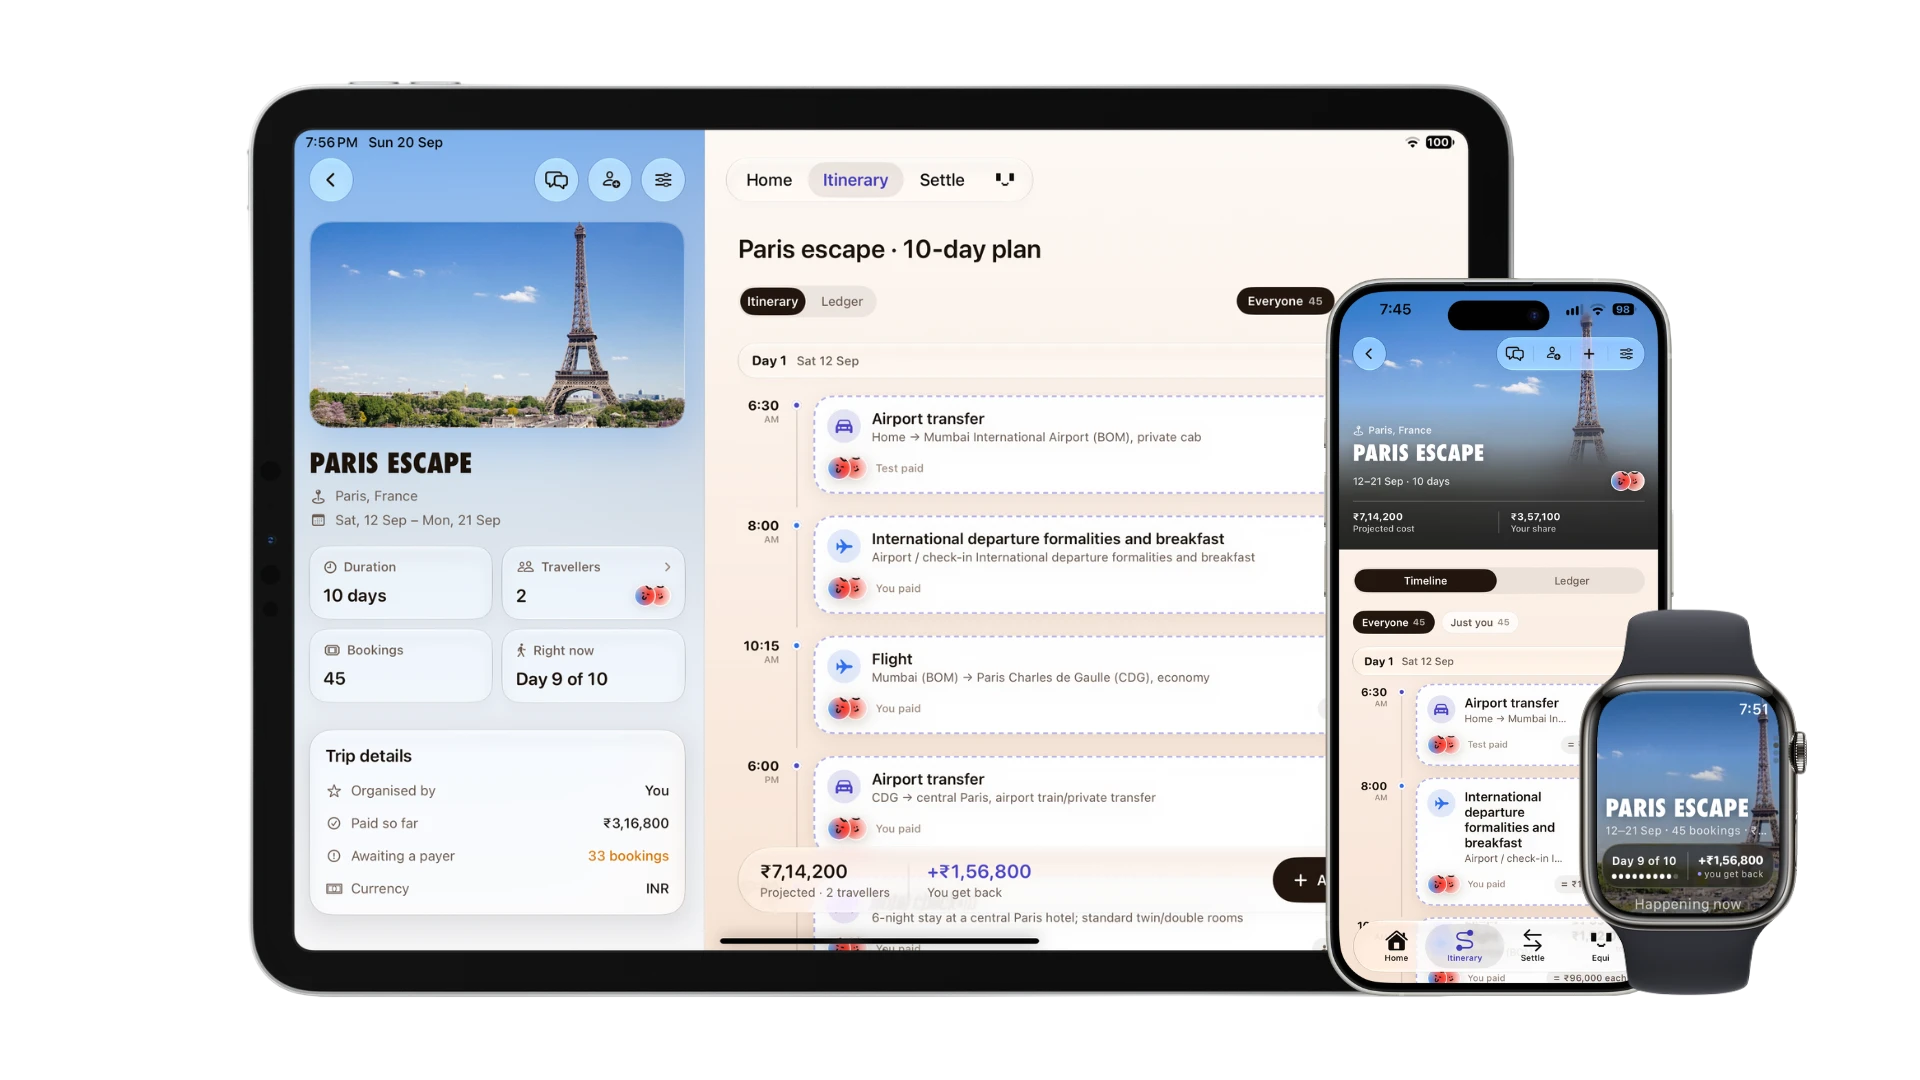
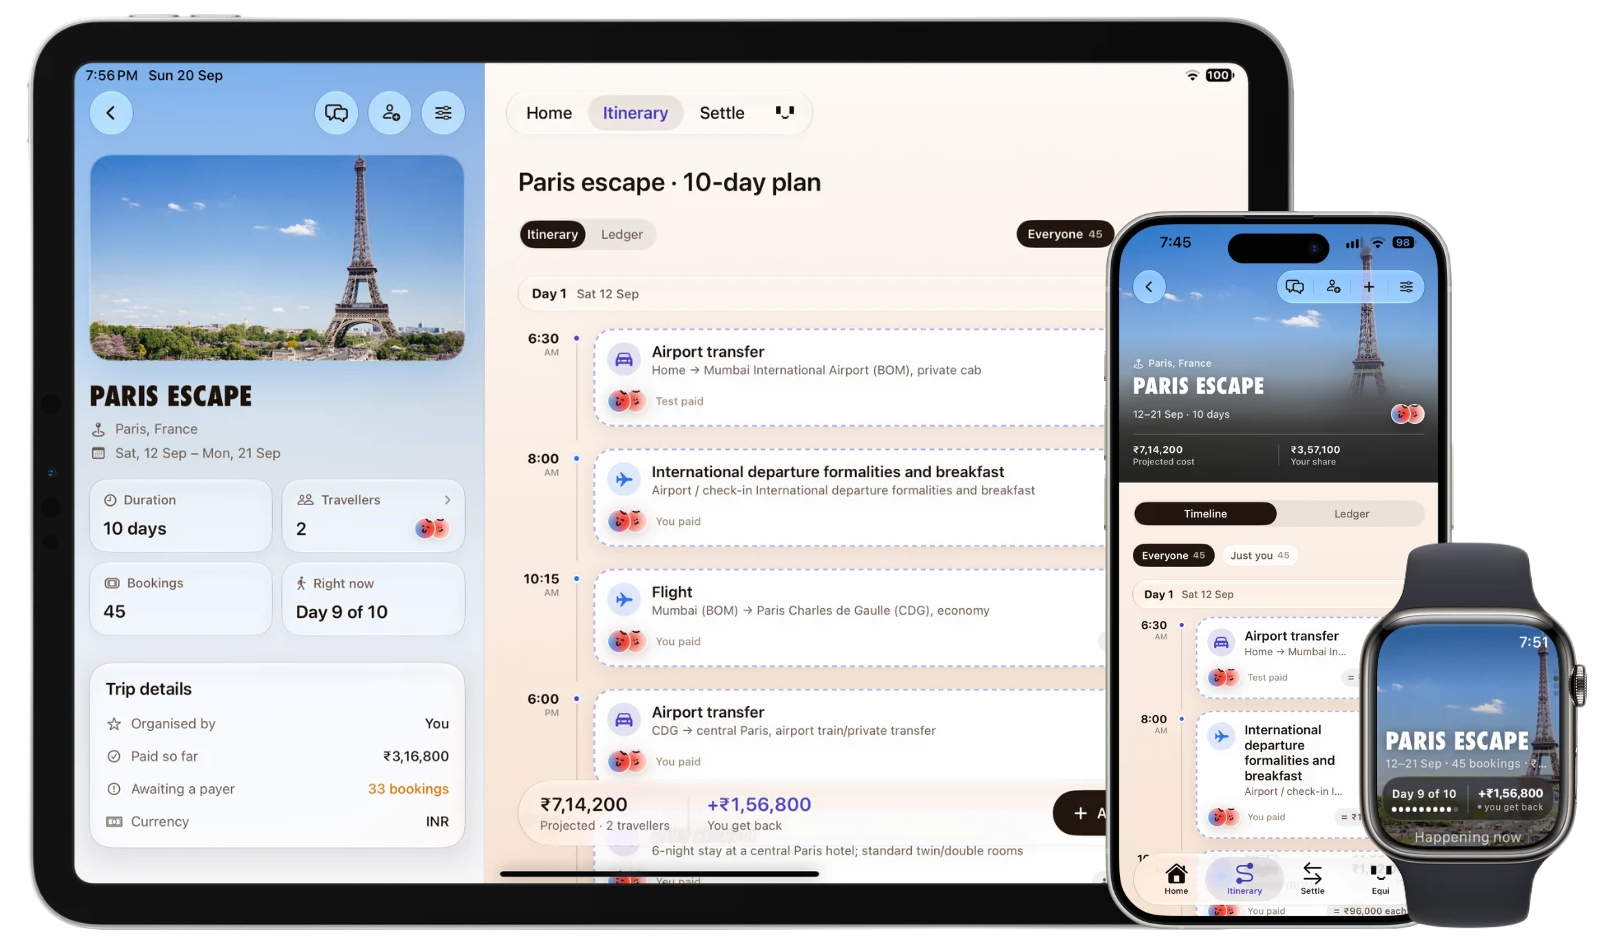
Update README and screenshots for improved clarity and consistency

diff --git a/README.md b/README.md
@@ -1,194 +1,95 @@
 <div align="center">
 
-<img src="docs/screenshots/icon.png" width="120" alt="">
+<img src="docs/screenshots/icon.png" width="112" alt="">
 
 # Equitrip
 
 Group travel, planned and paid for together.
 
-![Swift](https://img.shields.io/badge/Swift-5-F05138?style=flat-square&logo=swift&logoColor=white)
-![SwiftUI](https://img.shields.io/badge/SwiftUI-0B84FF?style=flat-square&logo=swift&logoColor=white)
-![iOS](https://img.shields.io/badge/iOS-1A1A1A?style=flat-square&logo=apple&logoColor=white)
-![watchOS](https://img.shields.io/badge/watchOS-1A1A1A?style=flat-square&logo=apple&logoColor=white)
+![Swift 5](https://img.shields.io/badge/Swift%205-F05138?style=flat&logo=swift&logoColor=white)
+![SwiftUI](https://img.shields.io/badge/SwiftUI-F05138?style=flat&logo=swift&logoColor=white)
+![iOS](https://img.shields.io/badge/iOS-F05138?style=flat&logo=apple&logoColor=white)
+![watchOS](https://img.shields.io/badge/watchOS-F05138?style=flat&logo=apple&logoColor=white)
 
 <br>
 
-<img src="docs/screenshots/hero.png" width="920" alt="">
+<img src="docs/screenshots/hero.png" width="900" alt="">
 
 </div>
 
 <br>
 
-Equitrip holds one shared record of a trip: the plan everyone is following and the
-money everyone has spent on it. Bookings arrive as a PDF and become a timeline.
-Receipts and payment emails are read on the device that took the photograph or
-holds the mailbox. When the trip ends, the balances collapse into the fewest
-transfers that clear them, and the group settles.
+> One shared record of a trip: the plan everyone is following, and the money
+> everyone has spent on it.
 
-It is a SwiftUI app for iPhone and iPad, with widgets, a watchOS companion, and
-Supabase as its only backend.
+Bookings arrive as a PDF and become a timeline. Receipts and payment emails are
+read on the device that holds them. At the end, balances collapse into the fewest
+transfers that clear them.
 
-<br>
+SwiftUI for iPhone and iPad, with widgets, a watchOS app, and Supabase behind it.
 
-## The plan
+## What it does
 
-A trip can be typed in, or imported. Hand it a booking PDF and the flights,
-hotels, transfers and activities in it are laid onto a day-by-day timeline, each
-one priced and attributed to the people it covers.
+- **Import a trip.** A booking PDF becomes a day-by-day timeline, priced and
+  attributed. A consistency pass flags what doesn't add up — a check-in before the
+  flight lands.
+- **Split anything.** Every booking carries who was on it, who paid, and how it
+  divides. Equally, by share, by amount, or excluding the people who weren't there.
+- **Read, don't type.** Receipts are parsed from a photograph and reconciled
+  against their total; payment emails become expenses waiting to be filed.
+- **Settle.** The fewest transfers, recalculated on every change, confirmed by the
+  person being paid.
+- **Ask.** Equi answers what's next, who owes you, where the money went — through
+  the app, Siri, Spotlight, widgets or the watch.
 
-The plan is then read back. A consistency pass compares the times two bookings
-state and says what they imply about each other — a hotel check-in before the
-flight lands, two cities in the same hour. A flight number resolves to a route,
-scheduled times and live status. A boarding pass scans from the camera.
-
-People join by QR code or invite code, and the trip is shared from that moment.
-
-## The money
-
-Every booking carries three things a shared spreadsheet leaves out: who was on it,
-who paid for it, and how it divides. Splits are equal, by share, by exact amount,
-or exclude the people who weren't there. Currency belongs to the trip, so a group
-can run one trip in rupees and the next in dollars.
-
-Two things save the typing. A photograph of a receipt is read line by line, its
-taxes and tips reconciled against its total, and opened in the booking editor for
-confirmation. A connected mailbox is scanned for the messages that look like
-payments, which are queued as detected expenses to be filed against a trip.
-
-Both happen on the device. Nothing is sent anywhere to be understood.
-
-## Settling up
-
-Balances are reduced to the fewest transfers that clear every one of them, and
-recalculated whenever anything changes.
-
-A settlement is a claim rather than a fact. The payer records what they paid and
-how, with proof; only the recipient can accept it. UPI links open whichever app
-is already on the phone. Someone leaving part-way through gets a statement worked
-out before anyone commits to it, which the rest of the group answers.
-
-Every change is kept. The audit trail is append-only — a correction is a new
-entry, never an edit to an old one.
-
-## Along the way
-
-Each trip has a thread. Polls, meetups, bring-lists, places, photos and the
-bookings themselves are attachments in it rather than links out of it.
-
-Equi answers questions about the trip in front of you — what's next, who still
-owes you, where the money is going — using Apple Intelligence on device. The same
-answers are available through Siri, Spotlight, Shortcuts, Control Centre and the
-Action button, and on the Home Screen, the Lock Screen and the wrist.
-
-<br>
+> [!NOTE]
+> Every model pass runs on device with Apple Intelligence. Nothing is sent
+> anywhere to be understood.
 
 ## Architecture
 
 ```
 Equitrip ────────┐
-EquitripWidgets  ├── EquitripShared ──> Supabase · Postgres, RLS, Auth, Realtime, Storage
+EquitripWidgets  ├── EquitripShared ──> Supabase · Postgres, RLS, Auth, Realtime
 EquitripWatch ───┘
 ```
 
-**Postgres is the source of truth.** There is no sample data and no offline
-fallback: a failed read or write is surfaced in the interface rather than hidden
-behind stale state. Every table is RLS-gated, and the publishable key shipped in
-the app carries no privileges of its own.
+Postgres is the only source of truth — no sample data, no offline fallback, every
+table RLS-gated. State lives in `@Observable` stores owned by `RootTabView`. The
+watch is fed snapshots over WatchConnectivity and never talks to Postgres itself.
 
-**State lives in observable stores.** `TripStore`, `NotificationStore` and
-`AuditTrail` are owned by `RootTabView` and reach views through the environment.
-Assigning `TripStore.trips` republishes the snapshot the widgets and the watch
-read; nothing else may publish it.
+<details>
+<summary><b>Invariants</b> — held in the app, enforced again in RLS</summary>
 
-**Intelligence is local.** `Intelligence/`, `Receipts/` and `Gmail/` run Apple's
-FoundationModels and Vision on the device. A rule-based parser sits underneath
-each of them, both as the path for devices without Apple Intelligence and as the
-check on the model.
-
-**The watch is fed, not connected.** It receives flattened snapshots over
-WatchConnectivity and never talks to Postgres itself.
-
-Diagrams: [architecture](docs/equitrip-architecture.png) ·
-[data flow](docs/equitrip-flow.png) · [user flow](docs/equitrip-userflow.png).
-
-### Invariants
-
-Held in the app and enforced again in RLS.
+<br>
 
 | | |
 |---|---|
-| **No money from a model** | Amounts and times are copied from the source text, and a name is used only if it appears there. The model decides what something is, never what it cost. |
-| **Settlements need their recipient** | A settlement leaves `.pending` only by the person being paid. The payer may create or withdraw, nothing more. |
-| **The audit trail only grows** | No update or delete policy exists for it. Corrections are new rows. It is not the notification list. |
-| **One set of arithmetic** | A departure preview asks a hypothetical `Trip` the ordinary share and balance questions, so the preview and the outcome cannot drift apart. |
-| **Schema changes are migrations** | Each one is a new numbered file in `supabase/migrations/`. |
+| **No money from a model** | Amounts and times are copied from the source text. The model decides what something is, never what it cost. |
+| **Settlements need their recipient** | A settlement leaves `.pending` only by the person being paid. |
+| **The audit trail only grows** | No update or delete policy exists. Corrections are new rows. |
+| **One set of arithmetic** | Departure previews ask a hypothetical `Trip` the ordinary questions, so preview and outcome cannot drift. |
+| **Schema changes are migrations** | Each one a new numbered file in `supabase/migrations/`. |
 
-<br>
+</details>
 
-## Getting started
+## Build
 
-Xcode 26 or later, an iOS 27 simulator or device, and a Mac with Apple
-Intelligence available for the on-device features.
-
-```bash
-git clone https://github.com/SwastiK-P/Equitrip.git
-```
-
-Build the app, the widget extension and the watch app:
+Xcode 26 or later, and an iOS 27 simulator or device.
 
 ```bash
-./scripts/build.sh
+./scripts/build.sh                  # app, widgets, watch
 ```
-
-Build, install and launch in the Simulator:
 
 ```bash
-./scripts/run.sh "iPhone 18 Pro"
+./scripts/run.sh "iPhone 18 Pro"    # build, install, launch
 ```
 
-Both scripts report errors, warnings in changed files, and a single result line;
-the full log is written to `build/last-build.log`. Dependencies resolve through
-Swift Package Manager. There is no test target — a change is verified by a clean
-build, and behaviour by running the app.
+> [!IMPORTANT]
+> `Services/*Config.swift` and `Gmail/GmailConfig.swift` hold live credentials.
+> Point them at your own Supabase project, aviationstack key, Unsplash
+> application and Google OAuth client, then apply `supabase/migrations/`.
 
-**Configuration.** `Services/SupabaseConfig.swift`, `Services/FlightConfig.swift`,
-`Services/PhotoConfig.swift` and `Gmail/GmailConfig.swift` hold the project's live
-credentials. To run it against your own infrastructure, point them at your
-Supabase project, an aviationstack key, an Unsplash application and a Google OAuth
-client, then apply `supabase/migrations/` to create the schema and its policies.
-
-<br>
-
-## Project structure
-
-| | |
-|---|---|
-| `Equitrip/Root/` | `RootTabView` — the tab shell, and the owner of the stores |
-| `Equitrip/Stores/` | `TripStore`, `NotificationStore`, `AuditTrail` |
-| `Equitrip/Model/` | `Trip`, `ItineraryItem`, `Traveller`, `Money`, `SplitMode`, departures, audit events |
-| `Equitrip/Services/` | `SupabaseRepository`, `AuthService`, photography, flights, widget and watch publishing |
-| `Equitrip/Intelligence/` | Booking documents to itineraries |
-| `Equitrip/Receipts/` | Photographs to reconciled receipts |
-| `Equitrip/Gmail/` | Payment email to detected expense |
-| `Equitrip/Equi/`, `Chat/` | The assistant, and the per-trip group thread |
-| `Equitrip/Intents/` | Siri, Spotlight, Shortcuts and Visual Intelligence |
-| `Equitrip/DesignSystem/` | Palette, surfaces, controls, adaptive layout |
-| `EquitripShared/` | Compiled into every target |
-| `EquitripWidgets/`, `EquitripWatch Watch App/` | Widgets and controls, and the watchOS app |
-
-Every file is named for the type it holds, so `SplitMode` is
-`Model/SplitMode.swift`. [`docs/CODEMAP.md`](docs/CODEMAP.md) lists all of them
-with their size and purpose, and is generated rather than written.
-
-<br>
-
-## Design
-
-Light mode only. Colour comes from `AppTheme` and `Palette`, cards from
-`.cardSurface()`, and every screen sits on `CanvasBackground`. Top bars carry a
-soft scroll edge effect; bottom bars carry none. Serif type is reserved for the
-name of a trip.
-
-Documentation comments record why something exists — the decision or the bug
-behind it — and the first sentence of each becomes that type's entry in the code
-map.
+There is no test target: a change is verified by a clean build, and behaviour by
+running the app. Start at [`docs/CODEMAP.md`](docs/CODEMAP.md) — every file with
+its size and purpose.
